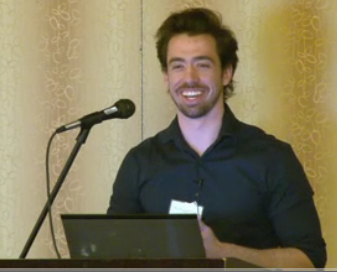
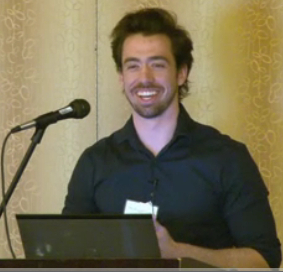
Updated Travis' bio and picture again
- just noticed if the picture isn't square then you get an oval
  and not a circle in the team page

diff --git a/_team/04-travis-dewolf.md b/_team/04-travis-dewolf.md
@@ -6,4 +6,6 @@ homepage: http://www.studywolf.com
 email: tdewolf@uwaterloo.ca
 ---
 
-Travis is a post-doctoral research associate at the University of Waterloo. He received his undergraduate degree in computer science at Acadia University, with a thesis discussing the algebraic properties of template-guided DNA recombination. His masters degree was in computer science at the University of Waterloo, and focussed on the development of the Neural Optimal Control Hierarchy (NOCH); a biologically plausible framework for large-scale models of the motor control system. His Ph.D. was in systems design engineering at the University of Waterloo, where he presented the Recurrent Error-driven Adaptive Control Hierarchy (REACH) model; a large-scale, fully spiking neural model of the motor cortices and cerebellum able to account for data from 19 studies from a behavioural level down to the level of single spiking neurons. 
+Travis is a post-doctoral research associate at the University of Waterloo whose research focuses on studying the brain's motor control system. Using modern control theoretic methods, such as operational space control, nonlinear adaptive control, and dynamic movement primitives, he has worked to develop biologically plausible spiking neural networks that model the brain, capable of generating the same diversity of behavioural phenomena and robust adaptation / learning seen in primates. 
+
+He received his undergraduate degree in computer science at Acadia University, with a thesis discussing the algebraic properties of template-guided DNA recombination. His masters degree was in computer science at the University of Waterloo, and focused on the development of the Neural Optimal Control Hierarchy (NOCH); a biologically plausible framework for large-scale models of the motor control system. His Ph.D. was in systems design engineering at the University of Waterloo, where he presented the Recurrent Error-driven Adaptive Control Hierarchy (REACH) model; a large-scale, fully spiking neural model of the motor cortices and cerebellum able to account for data from 19 studies from a behavioural level down to the level of single spiking neurons. 
